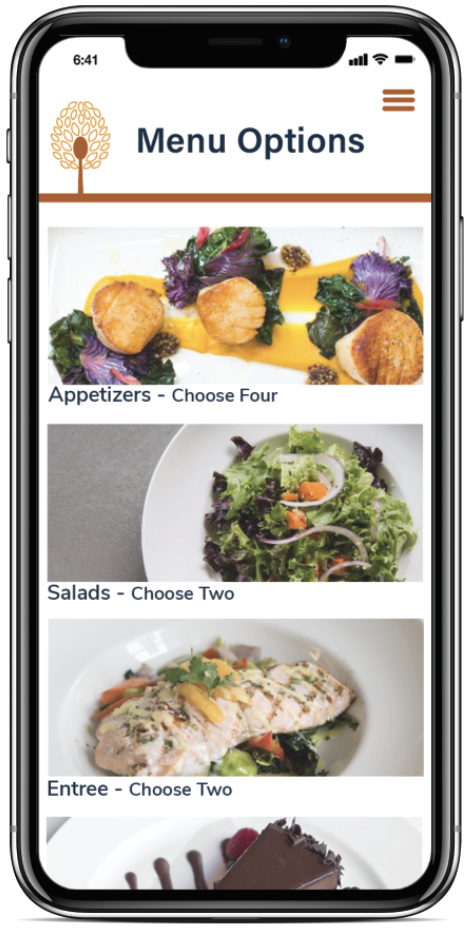
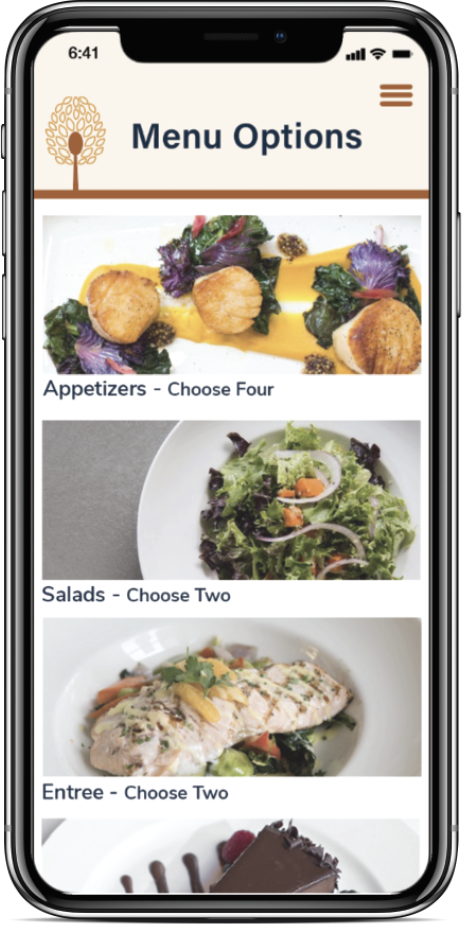
finished up farestart page

diff --git a/project1.html b/project1.html
@@ -162,6 +162,34 @@ http://www.tooplate.com/view/2085-neuron
                         <p><i>View the design research presentation  <a href="pdfs/FareStart Presentation.pdf">here</a>.</i></p>
                       </div>
 
+                      <div class=category>
+                        <hr style="border: .5px solid darkgray;" />
+                        <h3><b>COLOR PALETTE</br></h3>
+
+                        <center><img src="images/original_farestart_colors.jpg" class="img-responsive" width="520" height="420"></center>
+
+                        <p> I liked that FareStart used the color orange as their main color, but it
+                          wasn't the right shade of orange to convey their mission of compassion when
+                          helping their workers and the community. It was too bright and cool tone.
+                        </p>
+                        <br>
+
+                        <center><img src="images/colorInspo.jpg" class="img-responsive" width="350" height="250"></center>
+
+                        <p><center>My color inspiration</center></p>
+
+                        <center><img src="images/downArrow.jpg" class="img-responsive"  width="70" height="70"></center>
+
+                        <center><img src="images/updatedColorScheme.jpg" class="img-responsive" width="570" height="470"></center>
+                        <p><center>New Color Scheme</center></p>
+                        <br>
+                        <p>The updated color scheme is complimentary colors: blue and orange. I chose this scheme to convey
+                          a sense of elegance and to reflect FareStart's mission of making a lasting impact. The warmth of the oranges conveys
+                          comfort, while the brightness creates a sense of excitement for new beginnings. On the other hand, the blues
+                           also convey a sense of serenity and stability for both the workers and cutsomers.
+                        </p>
+                      </div>
+
 
                     <div class=category>
                         <hr style="border: .5px solid darkgray;" />
@@ -234,7 +262,8 @@ http://www.tooplate.com/view/2085-neuron
                           <div class="clearfix"></div>
 
                           <p> The menu icon leads the user to the list of FareStart's
-                            different menus, and the catering icon leads the user to its catering form to fill out. The icons
+                            different menus, and the catering icon leads the user to its catering form to fill out. Since FareStart
+                            wanted to be a high class restaurant I chose for the icons to be clean and simple. The icons
                             are the same color scheme as the logo to create cohesion across the visuals. I also wanted to match
                             the rounded corners and boldness of the spoon in the logo with the icons to convey a sense of friendliness and warmth.
                           </p>
@@ -247,7 +276,15 @@ http://www.tooplate.com/view/2085-neuron
 
                       <h3><b>MOBILE WIREFRAMES</b></h3>
 
-                      <p> I created three wireframes to show the micro interaction of choosing a menu item to taste
+                      <p> I started this part of the project by viewing their current website
+                        and pin pointing users' pain points. One major pain point I found was on their catering
+                        form page. They have one catering form but multiple catering menus, one of which is specific
+                        to weddings. I saw this as a paint point because FareStart wants to be seen as
+                        esteemed restaurant that is able to cater important events such as weddings, but doesn't make
+                        it intuitive or helpful for wedding planners to make a catering appointment. I thought
+                        FareStart should have a form that is specific to weddings.
+                        <br></br>After choosing to focus on a wedding catering form, I created three wireframes
+                        to show the micro interaction of choosing an item on their menu to request to taste
                         during a wedding catering meeting with FareStart.
                       </p>
 
@@ -263,56 +300,29 @@ http://www.tooplate.com/view/2085-neuron
                         <center><img src="images/wireframe_farestart3.jpg" class="img-responsive"/></center>
                       </div>
 
-
-
                       <div class="clearfix"></div>
                       <br></br>
 
                     </div>
 
-  
 
-                    <div class="col-md-6 col-sm-6">
-                         <h4>MOBILE WIREFRAMES</h4>
-                         <p> I started this aspect with viewing their current website and pin pointing
-                             pain points for the user. I targeted the issue with their catering form
-                             did not allow for user specifications. They have multiple menus for catering,
-                             one specific to weddings, so I chose to create a form specifically for users who
-                             need wedding catering. </p>
+                    <div class=category>
+                      <hr style="border: .5px solid darkgray;" />
+                      <h3><b>BRAND BOOK</b></h3>
+                      <br>
+                      <center><img src="images/brandbook.jpg" class="img-responsive" width="400px" height="300px"></center>
+                      <br>
+                      <p> This was the last phase of the project. The brand book is a culmination of
+                        my design work for rebranding FareStart's visual presence. It shares FareStart's story through
+                        their color scheme, logo, icons, photos, and app screens, all of which reflect their mission.
+                        FareStart.
+                      </p>
 
+                      <p>View my full Brandbook: <a href="pdfs/brandBook_LiaJohansen.pdf"><strong>here</strong></a>.</p>
                     </div>
-
-                    <!-- NEED THIS FOR THE TWO COLUMNS TO WORK -->
-                    <div class="clearfix"></div>
-
-
-                    <!-- !!!!!!!!!Two column for my brand book-->
-                    <div class="col-md-6 col-sm-6">
-                         <h4>BRAND BOOK</h4>
-                         <p>This was the last phase of my project. My brand book is a culmination of my design
-                            work for rebranding FareStart. It was where I could put together a story about FareStart
-                            and who they are through their visual presence. This includes visual about their mission,
-                            logo, icons, color palette, photo choices that all reflect FareStart's mission and goals.</p>
-
-                        <p>View my full  <a href="pdfs/brandBook_LiaJohansen.pdf"><strong>BrandBook</strong></a>.</p>
-
-                    </div>
-
-                    <div class="col-md-6 col-sm-6">
-                         <!-- insert the image -->
-                         <img src="images/brandbook.jpg" class="img-responsive" alt="FareStart website homepage">
-                         <!-- this is a line break to go to the next line -->
-                         <h3 style="color:black;">&nbsp</h3>
-                    </div>
-
-                    <!--  line break to go onto next project, which is design for america-->
-
 
                </div>
 
-               <!-- NEED THIS FOR THE TWO COLUMNS TO WORK
-                <div class="clearfix"></div>
-             -->
 
               <div class="clearfix"></div>
                   <!-- The black line separating thigns -->
